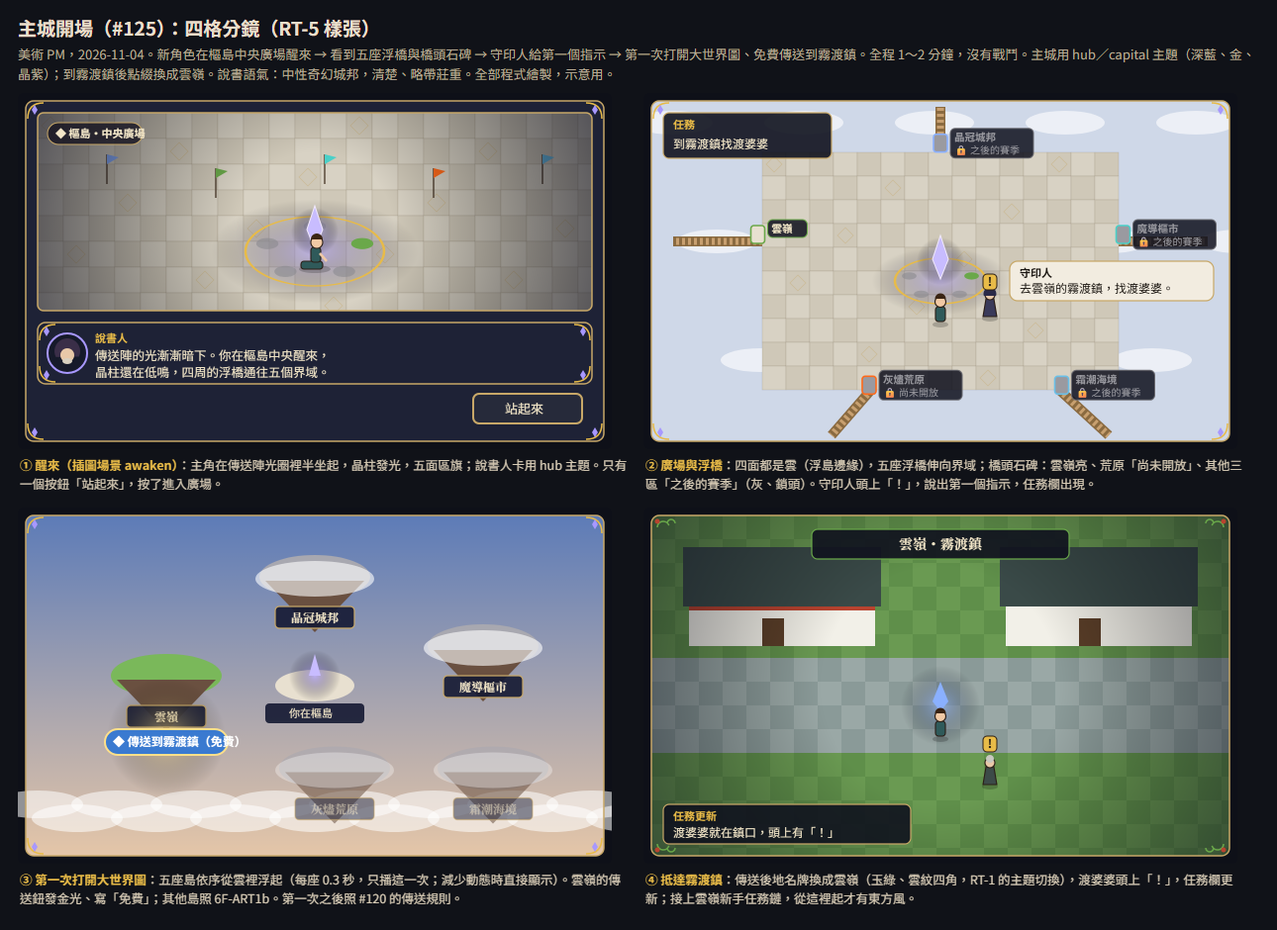
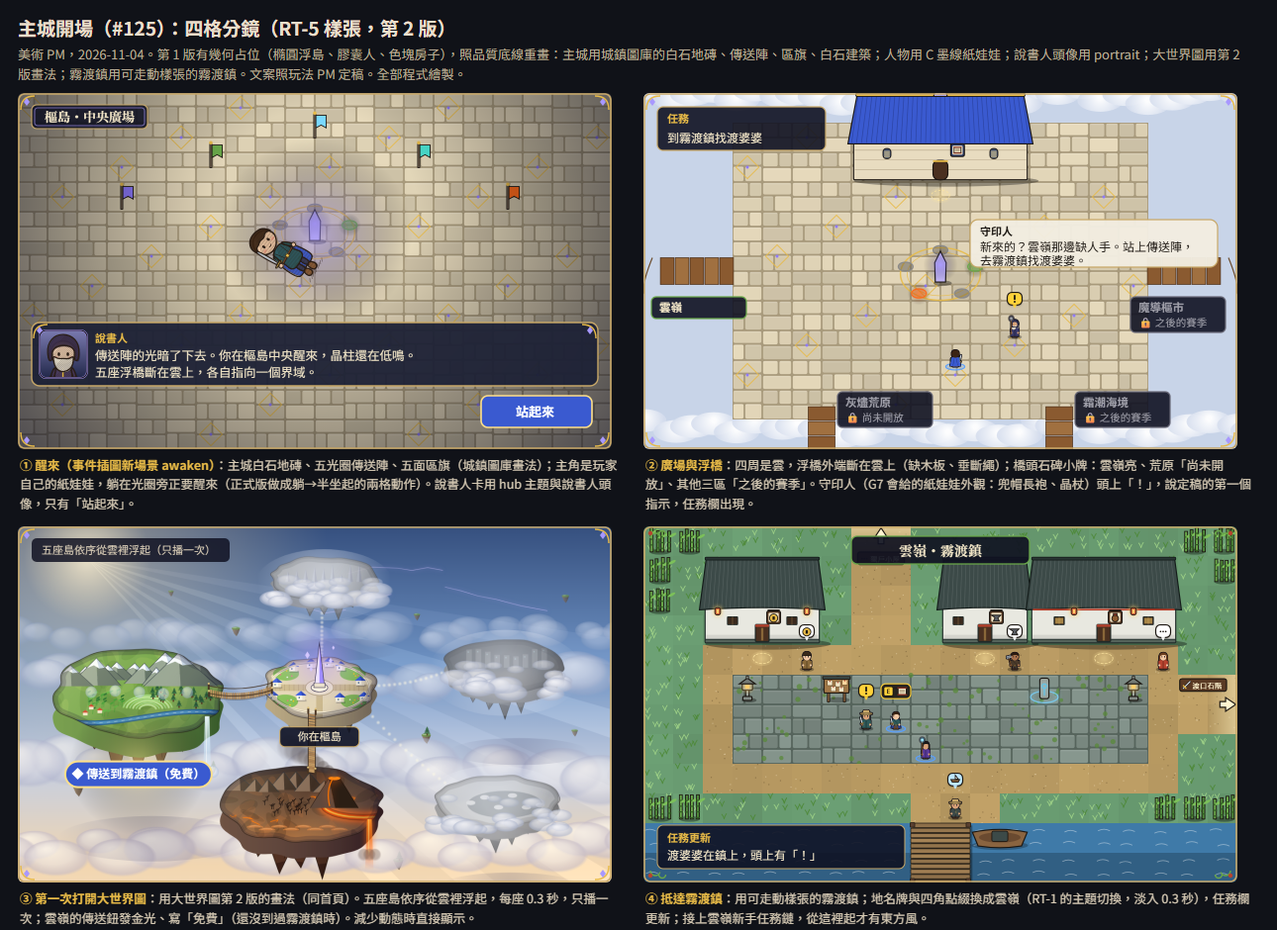
docs(art): creation preview origin scenery, final race text, capital opening storyboard v2

diff --git a/docs/art/sample/capital-opening.html b/docs/art/sample/capital-opening.html
@@ -8,84 +8,89 @@
   canvas{display:block;border-radius:6px}
 </style></head>
 <body>
-<h1>主城開場（#125）：四格分鏡（RT-5 樣張）</h1>
-<p class="note">美術 PM，2026-11-04。新角色在樞島中央廣場醒來 → 看到五座浮橋與橋頭石碑 → 守印人給第一個指示 → 第一次打開大世界圖、免費傳送到霧渡鎮。全程 1～2 分鐘，沒有戰鬥。主城用 hub／capital 主題（深藍、金、晶紫）；到霧渡鎮後點綴換成雲嶺。說書語氣：中性奇幻城邦，清楚、略帶莊重。全部程式繪製，示意用。</p>
+<h1>主城開場（#125）：四格分鏡（RT-5 樣張，第 2 版）</h1>
+<p class="note">美術 PM，2026-11-04。第 1 版有幾何占位（橢圓浮島、膠囊人、色塊房子），照品質底線重畫：主城用城鎮圖庫的白石地磚、傳送陣、區旗、白石建築；人物用 C 墨線紙娃娃；說書人頭像用 portrait；大世界圖用第 2 版畫法；霧渡鎮用可走動樣張的霧渡鎮。文案照玩法 PM 定稿。全部程式繪製。</p>
 <div class="grid" id="g"></div>
+<script src="raceArt.js"></script>
+<script src="paperdoll.js"></script>
+<script src="storyDoll.js"></script>
+<script src="portraits.js"></script>
+<script src="realms.js"></script>
+<script src="enemyArt.js"></script>
+<script src="explore.js"></script>
+<script src="hud.js"></script>
+<script src="regions4.js"></script>
+<script src="cloudTiles.js"></script>
+<script src="ashenTiles.js"></script>
+<script src="townTiles.js"></script>
+<script src="regionArt.js"></script>
+<script src="worldPaintedArt.js"></script>
 <script>
-const TAU=Math.PI*2,FONT="'Noto Sans TC','Microsoft JhengHei',sans-serif",SERIF="'Noto Serif TC','PMingLiU',serif";
+const E=Explore,TT=TownTiles,T=52,TAU=Math.PI*2,SK=E.SKIN;
+const FONT="'Noto Sans TC','Microsoft JhengHei',sans-serif",SERIF="'Noto Serif TC','PMingLiU',serif";
 const NAVY="#1e2236",NAVY2="#161a2a",GOLD="#c8a868",GOLD2="#e8bb48",CREAM="#f2e6c8",VIO="#a898ff";
-const REG=[["晶冠城邦","#8ab0ff",false,"之後的賽季"],["雲嶺","#6aa84a",true,""],["魔導樞市","#4ad0c8",false,"之後的賽季"],["灰燼荒原","#ff6a1a",false,"尚未開放"],["霜潮海境","#6ac0e8",false,"之後的賽季"]];
-function cv(w,h){const c=document.createElement("canvas");c.width=w*2;c.height=h*2;c.style.width=w+"px";c.style.height=h+"px";const x=c.getContext("2d");x.scale(2,2);return[c,x];}
+const PW=600,PH=360,K=PW/(20*T); // 每格畫 20×12 格，縮到 600×360
+function panel(draw){const c=document.createElement("canvas");c.width=PW*2;c.height=PH*2;c.style.width=PW+"px";c.style.height=PH+"px";const x=c.getContext("2d");x.scale(2,2);x.save();x.scale(K,K);draw(x);x.restore();return [c,x];}
 function glow(x,cx,cy,r,col,a=1){const g=x.createRadialGradient(cx,cy,0,cx,cy,r);g.addColorStop(0,col);g.addColorStop(1,"rgba(0,0,0,0)");x.save();x.globalAlpha=a;x.fillStyle=g;x.beginPath();x.arc(cx,cy,r,0,TAU);x.fill();x.restore();}
-function filigree(x,X,Y,sx,sy,acc=VIO){x.save();x.translate(X,Y);x.scale(sx,sy);x.strokeStyle=GOLD2;x.lineWidth=1.5;x.beginPath();x.moveTo(0,16);x.quadraticCurveTo(0,0,16,0);x.stroke();x.fillStyle=acc;x.beginPath();x.moveTo(7,2);x.lineTo(10,7);x.lineTo(7,12);x.lineTo(4,7);x.closePath();x.fill();x.restore();}
-function cloudCorner(x,X,Y,sx,sy){x.save();x.translate(X,Y);x.scale(sx,sy);x.strokeStyle="#6aa84a";x.lineWidth=1.5;x.beginPath();x.arc(10,10,6,Math.PI,TAU*0.95);x.stroke();x.beginPath();x.arc(18,6,4,Math.PI,TAU);x.stroke();x.fillStyle="#b8432f";x.beginPath();x.arc(4,4,2.5,0,TAU);x.fill();x.restore();}
-function frame(x,X,Y,W,H,corner=filigree,fill=true){x.fillStyle=NAVY;x.beginPath();x.roundRect(X,Y,W,H,8);if(fill)x.fill();x.strokeStyle=GOLD;x.lineWidth=1.5;x.stroke();corner(x,X+2,Y+2,1,1);corner(x,X+W-2,Y+2,-1,1);corner(x,X+2,Y+H-2,1,-1);corner(x,X+W-2,Y+H-2,-1,-1);}
-function stone(x,X,Y,W,H,T=26){for(let i=0;i*T<W;i++)for(let j=0;j*T<H;j++){x.fillStyle=(i+j)%2?"#d8d2c4":"#cfc8b8";x.fillRect(X+i*T,Y+j*T,T,T);x.strokeStyle="rgba(120,110,90,0.25)";x.lineWidth=0.6;x.strokeRect(X+i*T,Y+j*T,T,T);
-  if(((i*7+j*13)%12)===0){x.strokeStyle="rgba(200,168,104,0.45)";x.beginPath();x.moveTo(X+i*T+T/2,Y+j*T+4);x.lineTo(X+i*T+T-4,Y+j*T+T/2);x.lineTo(X+i*T+T/2,Y+j*T+T-4);x.lineTo(X+i*T+4,Y+j*T+T/2);x.closePath();x.stroke();}}}
-function portal(x,cx,cy,r,lit=1){x.save();x.translate(cx,cy);x.scale(1,0.5);glow(x,0,0,r*1.5,"rgba(168,152,255,0.55)",lit);x.strokeStyle=GOLD2;x.lineWidth=2.5;x.beginPath();x.arc(0,0,r,0,TAU);x.stroke();
-  REG.forEach(([,c,open],i)=>{const a=-Math.PI/2+i*TAU/5;x.fillStyle=open?c:"#8a8a90";x.globalAlpha=open?1:0.6;x.beginPath();x.arc(Math.cos(a)*r*0.72,Math.sin(a)*r*0.72,r*0.16,0,TAU);x.fill();x.globalAlpha=1;});x.restore();
-  glow(x,cx,cy-20,24,"rgba(200,190,255,0.8)",lit);x.fillStyle="#c8bcff";x.beginPath();x.moveTo(cx,cy-46);x.lineTo(cx+8,cy-22);x.lineTo(cx,cy-2);x.lineTo(cx-8,cy-22);x.closePath();x.fill();x.strokeStyle="#f2eaff";x.lineWidth=1;x.stroke();}
-function hero(x,X,Y,pose){x.strokeStyle="#2b1e16";x.lineWidth=1.1;
-  if(pose==="sit"){x.fillStyle="rgba(0,0,0,0.2)";x.beginPath();x.ellipse(X,Y+2,16,4,0,0,TAU);x.fill();x.fillStyle="#2f5a5a";x.beginPath();x.roundRect(X-14,Y-6,22,8,3);x.fill();x.stroke();
-    x.beginPath();x.roundRect(X-4,Y-20,10,15,3);x.fill();x.stroke();x.fillStyle="#f1c9a5";x.beginPath();x.arc(X+2,Y-25,6,0,TAU);x.fill();x.stroke();x.fillStyle="#3a2414";x.beginPath();x.arc(X+2,Y-28,6,Math.PI,TAU);x.fill();
-    x.strokeStyle="#f1c9a5";x.lineWidth=2.5;x.beginPath();x.moveTo(X+5,Y-14);x.lineTo(X+12,Y-6);x.stroke();}
-  else{x.fillStyle="rgba(0,0,0,0.2)";x.beginPath();x.ellipse(X,Y+2,8,3,0,0,TAU);x.fill();x.fillStyle="#2f5a5a";x.beginPath();x.roundRect(X-5,Y-16,10,15,3);x.fill();x.stroke();x.fillStyle="#f1c9a5";x.beginPath();x.arc(X,Y-21,5.5,0,TAU);x.fill();x.stroke();x.fillStyle="#3a2414";x.beginPath();x.arc(X,Y-24,5.5,Math.PI,TAU);x.fill();}}
-function npcFig(x,X,Y,body,hood){x.fillStyle="rgba(0,0,0,0.2)";x.beginPath();x.ellipse(X,Y+2,8,3,0,0,TAU);x.fill();x.fillStyle=body;x.strokeStyle="#2b1e16";x.lineWidth=1.1;x.beginPath();x.moveTo(X-7,Y);x.lineTo(X-4,Y-18);x.lineTo(X+4,Y-18);x.lineTo(X+7,Y);x.closePath();x.fill();x.stroke();
-  x.fillStyle="#e8c8a8";x.beginPath();x.arc(X,Y-22,5,0,TAU);x.fill();x.stroke();if(hood){x.fillStyle=hood;x.beginPath();x.arc(X,Y-23,6.5,Math.PI*0.9,TAU*1.05);x.fill();}}
-function mark(x,X,Y,ch="!",col=GOLD2){x.fillStyle=col;x.beginPath();x.roundRect(X-7,Y-9,14,16,4);x.fill();x.strokeStyle="#2b1e16";x.lineWidth=1;x.stroke();x.fillStyle="#1c1712";x.font=`bold 12px ${FONT}`;x.textAlign="center";x.fillText(ch,X,Y+3);x.textAlign="left";}
-function narr(x,X,Y,W,text,corner=filigree){frame(x,X,Y,W,62,corner);x.fillStyle=NAVY2;x.beginPath();x.arc(X+30,Y+31,20,0,TAU);x.fill();x.strokeStyle=VIO;x.lineWidth=2;x.stroke();
-  x.fillStyle="#3a2e48";x.beginPath();x.arc(X+30,Y+29,13,Math.PI*0.85,TAU*1.07);x.fill();x.fillStyle="#e8c8a8";x.beginPath();x.arc(X+30,Y+33,7,0,TAU);x.fill();x.fillStyle="#d8d0c0";x.beginPath();x.ellipse(X+30,Y+39,5,3,0,0,TAU);x.fill();
-  x.fillStyle=GOLD2;x.font=`bold 11px ${FONT}`;x.fillText("說書人",X+58,Y+20);x.fillStyle=CREAM;x.font=`12.5px ${FONT}`;const L=text.split("|");L.forEach((t,i)=>x.fillText(t,X+58,Y+38+i*17));}
-function banner(x,X,Y,c){x.strokeStyle="#5a4a3a";x.lineWidth=1.5;x.beginPath();x.moveTo(X,Y);x.lineTo(X,Y-30);x.stroke();x.fillStyle=c;x.beginPath();x.moveTo(X,Y-30);x.lineTo(X+12,Y-27);x.lineTo(X,Y-20);x.fill();}
-const W=600,H=360,panels=[];
-// 1 醒來
-panels.push([(x)=>{x.fillStyle="#0e1018";x.fillRect(0,0,W,H);frame(x,8,8,W-16,H-16);
-  x.save();x.beginPath();x.roundRect(20,20,W-40,200,6);x.clip();stone(x,20,20,W-40,200);
-  REG.forEach(([,c],i)=>banner(x,90+i*110,92+(i%2)*14,c));portal(x,300,160,70,1);hero(x,300,176,"sit");
-  const v=x.createRadialGradient(300,140,80,300,140,330);v.addColorStop(0,"rgba(0,0,0,0)");v.addColorStop(1,"rgba(10,12,30,0.7)");x.fillStyle=v;x.fillRect(20,20,W-40,200);x.restore();
-  x.strokeStyle=GOLD;x.lineWidth=1.5;x.beginPath();x.roundRect(20,20,W-40,200,6);x.stroke();
-  x.fillStyle="rgba(20,18,30,0.8)";x.beginPath();x.roundRect(30,30,96,22,11);x.fill();x.strokeStyle=GOLD;x.lineWidth=1;x.stroke();x.fillStyle=CREAM;x.font=`bold 11px ${FONT}`;x.fillText("◆ 樞島・中央廣場",38,45);
-  narr(x,20,232,W-40,"傳送陣的光漸漸暗下。你在樞島中央醒來，|晶柱還在低鳴，四周的浮橋通往五個界域。");
-  x.fillStyle="#262a3a";x.beginPath();x.roundRect(W-140,304,110,30,6);x.fill();x.strokeStyle=GOLD;x.stroke();x.fillStyle=CREAM;x.font=`13px ${FONT}`;x.fillText("站起來",W-108,324);},
- "<b>① 醒來（插圖場景 awaken）</b>：主角在傳送陣光圈裡半坐起，晶柱發光，五面區旗；說書人卡用 hub 主題。只有一個按鈕「站起來」，按了進入廣場。"]);
-// 2 廣場與浮橋＋守印人
-panels.push([(x)=>{x.fillStyle="#0e1018";x.fillRect(0,0,W,H);x.save();x.beginPath();x.roundRect(8,8,W-16,H-16,8);x.clip();
-  x.fillStyle="#cfd8e8";x.fillRect(8,8,W-16,H-16);for(let i=0;i<14;i++){x.fillStyle="rgba(255,255,255,0.6)";x.beginPath();x.ellipse(30+i*44,(i%3)*120+30,40,12,0,0,TAU);x.fill();}
-  stone(x,120,60,360,240,24);portal(x,300,190,46,0.9);
-  const ends=[[300,60,300,14],[120,150,30,150],[480,150,570,150],[230,300,190,346],[420,300,470,346]];const order=[0,1,2,3,4];
-  ends.forEach(([a,b,c,d],i)=>{const [nm,col,open,lab]=REG[order[i]];x.strokeStyle="#8a6a40";x.lineWidth=10;x.beginPath();x.moveTo(a,b);x.lineTo(c,d);x.stroke();x.strokeStyle="#c8a070";x.lineWidth=7;x.setLineDash([3,3]);x.beginPath();x.moveTo(a,b);x.lineTo(c,d);x.stroke();x.setLineDash([]);
-    const sx=a+(c-a)*0.05,sy=b+(d-b)*0.05;x.fillStyle=open?"#e8e0d0":"#9a9aa0";x.beginPath();x.roundRect(sx-7,sy-16,14,18,3);x.fill();x.strokeStyle=col;x.lineWidth=1.6;x.stroke();
-    x.fillStyle="rgba(16,18,30,0.86)";const tw=open?40:84;x.beginPath();x.roundRect(sx+10,sy-22,tw,lab?30:18,5);x.fill();x.strokeStyle=open?col:"#6a6a70";x.lineWidth=1;x.stroke();
-    x.fillStyle=open?CREAM:"#9a9aa0";x.font=`bold 10.5px ${FONT}`;x.fillText(nm,sx+14,sy-9);if(lab){x.font=`10px ${FONT}`;x.fillText("🔒 "+lab,sx+14,sy+4);}});
-  hero(x,300,232,"stand");npcFig(x,350,226,"#3a3a5a","#2a2a48");mark(x,350,192);
-  x.restore();frame(x,8,8,W-16,H-16,filigree,false);
-  x.fillStyle="#f2ece0";x.beginPath();x.roundRect(370,170,206,40,8);x.fill();x.strokeStyle=GOLD;x.lineWidth=1.2;x.stroke();x.fillStyle="#1c1712";x.font=`bold 11px ${FONT}`;x.fillText("守印人",380,186);x.font=`12px ${FONT}`;x.fillText("去雲嶺的霧渡鎮，找渡婆婆。",380,202);
-  x.fillStyle="rgba(16,18,30,0.9)";x.beginPath();x.roundRect(20,20,170,46,6);x.fill();x.strokeStyle=GOLD;x.stroke();x.fillStyle=GOLD2;x.font=`bold 11px ${FONT}`;x.fillText("任務",30,36);x.fillStyle=CREAM;x.font=`12px ${FONT}`;x.fillText("到霧渡鎮找渡婆婆",30,56);},
- "<b>② 廣場與浮橋</b>：四面都是雲（浮島邊緣），五座浮橋伸向界域；橋頭石碑：雲嶺亮、荒原「尚未開放」、其他三區「之後的賽季」（灰、鎖頭）。守印人頭上「！」，說出第一個指示，任務欄出現。"]);
-// 3 第一次打開大世界圖
-panels.push([(x)=>{x.fillStyle="#0e1018";x.fillRect(0,0,W,H);const g=x.createLinearGradient(0,0,0,H);g.addColorStop(0,"#5a7ab8");g.addColorStop(1,"#e8c8a8");x.fillStyle=g;x.beginPath();x.roundRect(8,8,W-16,H-16,8);x.fill();
-  for(let i=0;i<16;i++){x.fillStyle="rgba(255,255,255,0.55)";x.beginPath();x.ellipse(20+i*40,300+(i%2)*14,46,14,0,0,TAU);x.fill();}
-  const isl=[[300,70,0],[150,170,1],[470,140,2],[320,250,3],[480,250,4]];
-  isl.forEach(([cx,cy,ri],k)=>{const [nm,col,open]=REG[ri];const rise=k<3?1:0.55;x.save();x.globalAlpha=rise;x.translate(0,(1-rise)*30);
-    x.fillStyle=open?"#7ab85a":"#a8a8b0";x.beginPath();x.ellipse(cx,cy,56,22,0,0,TAU);x.fill();x.fillStyle="#6a5040";x.beginPath();x.moveTo(cx-50,cy+4);x.lineTo(cx,cy+56);x.lineTo(cx+50,cy+4);x.fill();
-    if(!open){x.fillStyle="rgba(255,255,255,0.6)";x.beginPath();x.ellipse(cx,cy+2,60,18,0,0,TAU);x.fill();}
-    x.fillStyle="rgba(20,24,50,0.9)";x.beginPath();x.roundRect(cx-40,cy+30,80,22,4);x.fill();x.strokeStyle=GOLD;x.lineWidth=1.2;x.stroke();x.fillStyle=CREAM;x.font=`bold 12px ${SERIF}`;x.textAlign="center";x.fillText(nm,cx,cy+46);x.textAlign="left";x.restore();});
-  x.fillStyle="#e8e0d0";x.beginPath();x.ellipse(300,180,40,16,0,0,TAU);x.fill();glow(x,300,170,26,"rgba(168,152,255,0.7)");x.fillStyle="#c8bcff";x.beginPath();x.moveTo(300,148);x.lineTo(306,170);x.lineTo(294,170);x.fill();
-  x.fillStyle="rgba(20,24,50,0.9)";x.beginPath();x.roundRect(250,198,100,20,4);x.fill();x.fillStyle=CREAM;x.font=`11px ${FONT}`;x.fillText("你在樞島",274,212);
-  glow(x,150,232,60,"rgba(255,224,138,0.55)");x.fillStyle="#3a7ad0";x.beginPath();x.roundRect(88,224,124,26,13);x.fill();x.strokeStyle="#ffe08a";x.lineWidth=2;x.stroke();x.fillStyle="#fff";x.font=`bold 12px ${FONT}`;x.fillText("◆ 傳送到霧渡鎮（免費）",96,241);
-  frame(x,8,8,W-16,H-16,filigree,false);},
- "<b>③ 第一次打開大世界圖</b>：五座島依序從雲裡浮起（每座 0.3 秒，只播這一次；減少動態時直接顯示）。雲嶺的傳送鈕發金光、寫「免費」；其他島照 6F-ART1b。第一次之後照 #120 的傳送規則。"]);
-// 4 抵達霧渡鎮
-panels.push([(x)=>{x.fillStyle="#0e1018";x.fillRect(0,0,W,H);x.save();x.beginPath();x.roundRect(8,8,W-16,H-16,8);x.clip();
-  for(let i=0;i<25;i++)for(let j=0;j<15;j++){x.fillStyle=(j>5&&j<10)?((i+j)%2?"#8a9a98":"#9aa8a6"):((i+j)%2?"#6a9a52":"#5f8f4a");x.fillRect(8+i*24,8+j*24,24,24);}
-  x.fillStyle="#3a4a48";x.fillRect(40,40,200,60);x.fillStyle="#f2f0e8";x.fillRect(46,100,188,40);x.fillStyle="#b8432f";x.fillRect(46,100,188,4);x.fillStyle="#5a3e28";x.fillRect(120,112,22,28);
-  x.fillStyle="#3a4a48";x.fillRect(360,40,200,60);x.fillStyle="#f2f0e8";x.fillRect(366,100,188,40);x.fillStyle="#5a3e28";x.fillRect(440,112,22,28);
-  glow(x,300,200,40,"rgba(138,176,255,0.6)");x.fillStyle="#8ab0ff";x.beginPath();x.moveTo(300,176);x.lineTo(308,196);x.lineTo(300,206);x.lineTo(292,196);x.fill();
-  hero(x,300,232,"stand");npcFig(x,350,280,"#3c4a48",null);x.fillStyle="#c8c8c0";x.beginPath();x.arc(350,254,4,0,TAU);x.fill();mark(x,350,240);
-  const v=x.createRadialGradient(300,180,120,300,180,360);v.addColorStop(0,"rgba(0,0,0,0)");v.addColorStop(1,"rgba(10,12,30,0.55)");x.fillStyle=v;x.fillRect(8,8,W-16,H-16);x.restore();
-  frame(x,8,8,W-16,H-16,cloudCorner,false);
-  x.fillStyle="rgba(16,18,30,0.92)";x.beginPath();x.roundRect(170,22,260,30,6);x.fill();x.strokeStyle="#6aa84a";x.lineWidth=1.2;x.stroke();x.fillStyle=CREAM;x.font=`bold 14px ${SERIF}`;x.textAlign="center";x.fillText("雲嶺・霧渡鎮",300,42);x.textAlign="left";
-  x.fillStyle="rgba(16,18,30,0.9)";x.beginPath();x.roundRect(20,300,250,40,6);x.fill();x.strokeStyle=GOLD;x.stroke();x.fillStyle=GOLD2;x.font=`bold 11px ${FONT}`;x.fillText("任務更新",30,316);x.fillStyle=CREAM;x.font=`12px ${FONT}`;x.fillText("渡婆婆就在鎮口，頭上有「！」",30,333);},
- "<b>④ 抵達霧渡鎮</b>：傳送後地名牌換成雲嶺（玉綠、雲紋四角，RT-1 的主題切換），渡婆婆頭上「！」，任務欄更新；接上雲嶺新手任務鏈，從這裡起才有東方風。"]);
-const g=document.getElementById("g");panels.forEach(([fn,cap])=>{const d=document.createElement("div");const [c,x]=cv(W,H);fn(x);d.appendChild(c);const p=document.createElement("div");p.className="cap";p.innerHTML=cap;d.appendChild(p);g.appendChild(d);});
+function fil(x,X,Y,sx,sy,acc=VIO){x.save();x.translate(X,Y);x.scale(sx,sy);x.strokeStyle=GOLD2;x.lineWidth=1.4;x.beginPath();x.moveTo(0,14);x.quadraticCurveTo(0,0,14,0);x.stroke();x.fillStyle=acc;x.beginPath();x.moveTo(6,2);x.lineTo(9,6);x.lineTo(6,10);x.lineTo(3,6);x.closePath();x.fill();x.restore();}
+function cloudC(x,X,Y,sx,sy){x.save();x.translate(X,Y);x.scale(sx,sy);x.strokeStyle="#6aa84a";x.lineWidth=1.4;x.beginPath();x.arc(9,9,5,Math.PI,TAU*0.95);x.stroke();x.beginPath();x.arc(16,5,3.5,Math.PI,TAU);x.stroke();x.fillStyle="#b8432f";x.beginPath();x.arc(4,4,2.2,0,TAU);x.fill();x.restore();}
+function border(x,corner=fil){x.strokeStyle=GOLD;x.lineWidth=1.6;x.beginPath();x.roundRect(1,1,PW-2,PH-2,6);x.stroke();corner(x,3,3,1,1);corner(x,PW-3,3,-1,1);corner(x,3,PH-3,1,-1);corner(x,PW-3,PH-3,-1,-1);}
+function plaqueLoc(x,X,Y,t,acc=VIO){x.fillStyle="rgba(16,18,34,0.9)";x.beginPath();x.roundRect(X,Y,t.length*13+26,24,5);x.fill();x.strokeStyle=GOLD;x.lineWidth=1.1;x.stroke();x.strokeStyle=acc;x.globalAlpha=0.6;x.beginPath();x.roundRect(X+3,Y+3,t.length*13+20,18,3);x.stroke();x.globalAlpha=1;x.fillStyle=CREAM;x.font=`bold 13px ${SERIF}`;x.fillText(t,X+13,Y+17);}
+const NARR={look:{skin:"#e8c8a8",hair:"none",beard:true,hairColor:"#d8d0c0"},gear:{body:{kind:"robe",color:"#4a3a5a",trim:"#e8bb48"},head:{kind:"hood",color:"#3a2e48"}}};
+Portraits.REGION.hub=["#a898ff","#22284a","#7a7ab0"];
+function narrCard(x,X,Y,W,lines){x.fillStyle="rgba(30,34,54,0.95)";x.beginPath();x.roundRect(X,Y,W,64,8);x.fill();x.strokeStyle=GOLD;x.lineWidth=1.4;x.stroke();fil(x,X+2,Y+2,1,1);fil(x,X+W-2,Y+2,-1,1);
+  Portraits.portrait(x,X+8,Y+8,48,["narrator","說書人","","hub",NARR.look,NARR.gear,[]]);x.fillStyle=GOLD2;x.font=`bold 11px ${FONT}`;x.fillText("說書人",X+64,Y+20);x.fillStyle=CREAM;x.font=`12.5px ${FONT}`;lines.forEach((t,i)=>x.fillText(t,X+64,Y+38+i*17));}
+const HERO=E.PARTY[0];
+function plazaArea(c,w,h){for(let gy=0;gy<h;gy++)for(let gx=0;gx<w;gx++)TT.plaza(c,gx,gy);}
+function cloudEdge(c,y0){const r=RegionArt.rng(7);for(let i=0;i<30;i++){const cx=i*38+r()*20,cy=y0+r()*30;const g=c.createRadialGradient(cx,cy-6,4,cx,cy,36);g.addColorStop(0,"rgba(255,255,255,0.95)");g.addColorStop(1,"rgba(214,222,238,0.85)");c.fillStyle=g;c.beginPath();c.ellipse(cx,cy,40,20,0,0,TAU);c.fill();}}
+function brokenBridge(c,x0,y0,dx,dy,len){ // 斷在雲上的木板浮橋（只畫外觀）
+  for(let i=0;i<len;i++){const px=x0+dx*i*T*0.5,py=y0+dy*i*T*0.5;if(i>=len-2&&i%2===1)continue;const w=dx?T*0.46:T*0.9,h=dx?T*0.9:T*0.46;
+    c.fillStyle=i%2?"#a07040":"#8a5a30";c.fillRect(px-w/2,py-h/2,w,h);c.strokeStyle="#4a2e18";c.lineWidth=1.2;c.strokeRect(px-w/2,py-h/2,w,h);}
+  const ex=x0+dx*(len-1)*T*0.5,ey=y0+dy*(len-1)*T*0.5;c.strokeStyle="#6a4a2a";c.lineWidth=2;c.beginPath();c.moveTo(ex-(dy?T*0.45:0),ey-(dx?T*0.45:0));c.quadraticCurveTo(ex+dx*20,ey+dy*20+26,ex+dx*14,ey+dy*14+40);c.stroke();}
+const panels=[];
+// ① 醒來
+panels.push([()=>{const [c,x]=panel(c=>{plazaArea(c,20,12);
+    ["crystal_crown","cloud_ridge","arcane_hub","ashen_waste","frost_tide"].forEach((r,k)=>TT.banner(c,[3,6,13,16,9.5][k]*T,[3,1.6,1.6,3,0.6][k]*T,r));
+    TT.portalPlaza(c,8.5,3.2);glow(c,10*T,4.8*T,170,"rgba(168,152,255,0.55)");
+    // 主角在光圈裡半坐起（紙娃娃側躺後抬起上身）
+    c.save();c.translate(10*T,6*T);c.rotate(-1.05);StoryDoll.stamp(c,{look:HERO[0],gear:HERO[1]},"front",0,0,2.4,false);c.restore();
+    const v=c.createRadialGradient(10*T,4*T,180,10*T,4*T,640);v.addColorStop(0,"rgba(0,0,0,0)");v.addColorStop(1,"rgba(10,12,30,0.65)");c.fillStyle=v;c.fillRect(0,0,20*T,12*T);});
+  plaqueLoc(x,14,12,"樞島・中央廣場");narrCard(x,14,PH-128,PW-28,["傳送陣的光暗了下去。你在樞島中央醒來，晶柱還在低鳴。","五座浮橋斷在雲上，各自指向一個界域。"]);
+  x.fillStyle="#3a5ad0";x.beginPath();x.roundRect(PW-132,PH-54,112,32,7);x.fill();x.strokeStyle="#ffe08a";x.lineWidth=1.6;x.stroke();x.fillStyle="#fff";x.font=`bold 13px ${FONT}`;x.fillText("站起來",PW-97,PH-33);border(x);return c;},
+ "<b>① 醒來（事件插圖新場景 awaken）</b>：主城白石地磚、五光圈傳送陣、五面區旗（城鎮圖庫畫法）；主角是玩家自己的紙娃娃，躺在光圈旁正要醒來（正式版做成躺→半坐起的兩格動作）。說書人卡用 hub 主題與說書人頭像，只有「站起來」。"]);
+// ② 廣場與浮橋＋守印人
+panels.push([()=>{const [c,x]=panel(c=>{c.fillStyle="#c8d4e8";c.fillRect(0,0,20*T,12*T);cloudEdge(c,-10);cloudEdge(c,11*T);
+    for(let gy=1;gy<11;gy++)for(let gx=3;gx<17;gx++)TT.plaza(c,gx,gy);
+    TT.stoneHall(c,7,0,6,3,{door:3,windows:[1.2,4.8],sign:"scroll",spire:true});
+    TT.portalPlaza(c,8.5,4.6);
+    brokenBridge(c,2.8*T,6*T,-1,0,6);brokenBridge(c,17.2*T,6*T,1,0,6);brokenBridge(c,6*T,10.8*T,0,1,4);brokenBridge(c,14*T,10.8*T,0,1,4);
+    E.person(c,10,8.4,...HERO,"north","#5aa0ff");
+    E.person(c,12,7.4,{skin:SK[1],hair:"long",hairColor:"#d8d0c0",beard:true},{body:{kind:"robe",color:"#3a3a6a",trim:"#e8bb48"},head:{kind:"hood",color:"#2a2a4a"},main_hand:{kind:"staff",material:"crystal"}},"west",null);
+    E.bubble(c,12*T+T/2,7.4*T+T*0.82-52,"bang","quest");});
+  // 橋頭石碑的小牌
+  const S=[[8,206,"雲嶺","",true,"#6aa84a"],[PW-108,206,"魔導樞市","之後的賽季",false],[196,PH-58,"灰燼荒原","尚未開放",false],[436,PH-58,"霜潮海境","之後的賽季",false]];
+  S.forEach(([X,Y,n,lab,open,col])=>{x.fillStyle="rgba(16,18,34,0.9)";x.beginPath();x.roundRect(X,Y,96,lab?36:22,5);x.fill();x.strokeStyle=open?col:"#6a6a78";x.lineWidth=1.2;x.stroke();x.fillStyle=open?CREAM:"#a0a0aa";x.font=`bold 11.5px ${FONT}`;x.fillText(n,X+8,Y+15);
+    if(lab){x.font=`10.5px ${FONT}`;x.fillText("🔒 "+lab,X+8,Y+30);}});
+  x.fillStyle="rgba(242,236,224,0.97)";x.beginPath();x.roundRect(PW-270,128,250,48,8);x.fill();x.strokeStyle=GOLD;x.lineWidth=1.2;x.stroke();x.fillStyle="#1c1712";x.font=`bold 11px ${FONT}`;x.fillText("守印人",PW-260,144);x.font=`12px ${FONT}`;x.fillText("新來的？雲嶺那邊缺人手。站上傳送陣，",PW-260,160);x.fillText("去霧渡鎮找渡婆婆。",PW-260,174);
+  x.fillStyle="rgba(16,18,34,0.9)";x.beginPath();x.roundRect(14,14,170,44,6);x.fill();x.strokeStyle=GOLD;x.stroke();x.fillStyle=GOLD2;x.font=`bold 11px ${FONT}`;x.fillText("任務",24,30);x.fillStyle=CREAM;x.font=`12px ${FONT}`;x.fillText("到霧渡鎮找渡婆婆",24,50);
+  border(x);return c;},
+ "<b>② 廣場與浮橋</b>：四周是雲，浮橋外端斷在雲上（缺木板、垂斷繩）；橋頭石碑小牌：雲嶺亮、荒原「尚未開放」、其他三區「之後的賽季」。守印人（G7 會給的紙娃娃外觀：兜帽長袍、晶杖）頭上「！」，說定稿的第一個指示，任務欄出現。"]);
+// ③ 第一次打開大世界圖
+panels.push([()=>{const c=document.createElement("canvas");c.width=PW*2;c.height=PH*2;c.style.width=PW+"px";c.style.height=PH+"px";const x=c.getContext("2d");
+  const bg=document.createElement("canvas");WorldPaintedArt.drawBackdrop(bg,900);x.drawImage(bg,0,0,PW*2,PW*2*bg.height/bg.width);x.scale(2,2);
+  const sx=PW/1280,sy=sx;const isl=WorldPaintedArt.ISLANDS;
+  const cl=isl.find(i=>i.id==="cloud_ridge"),cp=isl.find(i=>i.id==="capital");
+  glow(x,cl.x*sx,(cl.y+cl.ry*1.6)*sy,70,"rgba(255,224,138,0.5)");
+  x.fillStyle="#3a5ad0";x.beginPath();x.roundRect(cl.x*sx-74,(cl.y+cl.ry*1.5)*sy,148,26,13);x.fill();x.strokeStyle="#ffe08a";x.lineWidth=2;x.stroke();x.fillStyle="#fff";x.font=`bold 12px ${FONT}`;x.textAlign="center";x.fillText("◆ 傳送到霧渡鎮（免費）",cl.x*sx,(cl.y+cl.ry*1.5)*sy+17);
+  x.fillStyle="rgba(16,18,34,0.9)";x.beginPath();x.roundRect(cp.x*sx-40,(cp.y+cp.ry*1.25)*sy,80,20,5);x.fill();x.strokeStyle=GOLD;x.lineWidth=1;x.stroke();x.fillStyle=CREAM;x.font=`11px ${FONT}`;x.fillText("你在樞島",cp.x*sx,(cp.y+cp.ry*1.25)*sy+14);x.textAlign="left";
+  x.fillStyle="rgba(16,18,34,0.85)";x.beginPath();x.roundRect(14,12,200,24,5);x.fill();x.fillStyle="#d8ccb6";x.font=`11px ${FONT}`;x.fillText("五座島依序從雲裡浮起（只播一次）",24,28);
+  border(x);return c;},
+ "<b>③ 第一次打開大世界圖</b>：用大世界圖第 2 版的畫法（同首頁）。五座島依序從雲裡浮起，每座 0.3 秒，只播一次；雲嶺的傳送鈕發金光、寫「免費」（還沒到過霧渡鎮時）。減少動態時直接顯示。"]);
+// ④ 抵達霧渡鎮
+panels.push([()=>{const [c,x]=panel(c=>{E.town(c,()=>{});});
+  x.fillStyle="rgba(16,18,34,0.92)";x.beginPath();x.roundRect(PW/2-90,10,180,28,6);x.fill();x.strokeStyle="#6aa84a";x.lineWidth=1.3;x.stroke();x.fillStyle=CREAM;x.font=`bold 14px ${SERIF}`;x.textAlign="center";x.fillText("雲嶺・霧渡鎮",PW/2,30);x.textAlign="left";
+  x.fillStyle="rgba(16,18,34,0.9)";x.beginPath();x.roundRect(14,PH-58,250,44,6);x.fill();x.strokeStyle=GOLD;x.lineWidth=1;x.stroke();x.fillStyle=GOLD2;x.font=`bold 11px ${FONT}`;x.fillText("任務更新",24,PH-41);x.fillStyle=CREAM;x.font=`12px ${FONT}`;x.fillText("渡婆婆在鎮上，頭上有「！」",24,PH-23);
+  border(x,cloudC);return c;},
+ "<b>④ 抵達霧渡鎮</b>：用可走動樣張的霧渡鎮；地名牌與四角點綴換成雲嶺（RT-1 的主題切換，淡入 0.3 秒），任務欄更新；接上雲嶺新手任務鏈，從這裡起才有東方風。"]);
+const g=document.getElementById("g");panels.forEach(([fn,cap])=>{const d=document.createElement("div");d.appendChild(fn());const p=document.createElement("div");p.className="cap";p.innerHTML=cap;d.appendChild(p);g.appendChild(d);});
 </script></body></html>

diff --git a/docs/art/sample/create-v2.html b/docs/art/sample/create-v2.html
@@ -7,7 +7,7 @@
 </style></head>
 <body>
 <h1>建立角色（第 2 版樣張）：種族、出身、武器、關鍵字都用遊戲裡的畫法</h1>
-<p class="note">美術 PM，2026-11-04。使用者看第 1 版：「太簡陋了吧」。種族小圖改用 C 墨線紙娃娃的頭像（看得到尖耳、狐耳、鱗角、鬍子、獠牙、義眼、鰭耳）；選中的種族在右上展開名字、簡介、種族技、環境被動、判定加值；左邊大預覽跟著切換。出身用五區紋章與區域色；武器用遊戲的武器圖示；關鍵字用小圖示。全部程式繪製；簡介文字是美術 PM 暫擬，正式文案由玩法 PM 定。</p>
+<p class="note">美術 PM，2026-11-04。使用者看第 1 版：「太簡陋了吧」。種族小圖改用 C 墨線紙娃娃的頭像（看得到尖耳、狐耳、鱗角、鬍子、獠牙、義眼、鰭耳）；選中的種族在右上展開名字、簡介、種族技、環境被動、判定加值；左邊大預覽跟著切換。出身用五區紋章與區域色；武器用遊戲的武器圖示；關鍵字用小圖示。全部程式繪製；種族簡介、判定加值、出身描述照玩法 PM 定稿（#115）。左邊預覽背後是所選出身區的淡景。</p>
 <div id="a"></div>
 <script src="raceArt.js"></script>
 <script src="paperdoll.js"></script>
@@ -66,7 +66,15 @@ function kwIcon(x,cx,cy,k){const C={冰凍:"#8ad8ff",燃燒:"#ff8a3a",帶電:"#f
 function chip(x,X,Y,W,H,sel,col=GOLD2){x.fillStyle=sel?"#2a3a6a":"#262a3a";x.beginPath();x.roundRect(X,Y,W,H,8);x.fill();x.strokeStyle=sel?col:"#3a4060";x.lineWidth=sel?2:1;x.stroke();if(sel){glow(x,X+W/2,Y+H/2,W*0.6,"rgba(232,187,72,0.15)");}}
 const W=1300,H=980;const [c,x]=cv(W,H);sky(x,W,H);
 // 左：預覽
-frame(x,20,20,330,940);x.fillStyle=GOLD2;x.font=`bold 14px ${FONT}`;x.fillText("預覽",40,48);
+frame(x,20,20,330,940);
+// 預覽背景：所選出身區的淡景（區域插畫 B 彩繪的全貌，RegionArt.draw 的 full 模式），框內上半部，往下漸淡到深藍
+{const rg=document.createElement("canvas");RegionArt.draw(rg,"painted",{full:true,region:"cloud_ridge"});
+ x.save();x.beginPath();x.roundRect(24,24,322,620,6);x.clip();x.globalAlpha=0.62;
+ const sw=rg.width*0.42,sh=sw*620/322;x.drawImage(rg,rg.width*0.08,rg.height*0.12,sw,Math.min(sh,rg.height*0.86),24,24,322,620);x.globalAlpha=1;
+ const fade=x.createLinearGradient(0,300,0,644);fade.addColorStop(0,"rgba(30,34,54,0)");fade.addColorStop(1,"rgba(30,34,54,1)");x.fillStyle=fade;x.fillRect(24,300,322,344);
+ const top=x.createLinearGradient(0,24,0,90);top.addColorStop(0,"rgba(30,34,54,0.85)");top.addColorStop(1,"rgba(30,34,54,0)");x.fillStyle=top;x.fillRect(24,24,322,66);x.restore();
+ x.fillStyle="rgba(16,18,30,0.75)";x.beginPath();x.roundRect(220,34,116,22,11);x.fill();x.strokeStyle=RC.雲嶺[0];x.lineWidth=1;x.stroke();x.fillStyle=CREAM;x.font=`11px ${FONT}`;x.fillText("出身：雲嶺的景",232,49);}
+x.fillStyle=GOLD2;x.font=`bold 14px ${FONT}`;x.fillText("預覽",40,48);
 glow(x,185,420,170,"rgba(106,168,74,0.35)");x.fillStyle="rgba(0,0,0,0.3)";x.beginPath();x.ellipse(185,520,70,14,0,0,TAU);x.fill();
 StoryDoll.stamp(x,{look:R.fox.look,gear:{body:{kind:"leather",color:"#6a5040"},feet:{kind:"boots",material:"leather"},main_hand:{kind:"bow",material:"wood"}}},"front",185,520,4.6,false);
 x.fillStyle=CREAM;x.font=`bold 20px ${SERIF}`;x.textAlign="center";x.fillText("霜月",185,570);x.fillStyle="#c8bca8";x.font=`12.5px ${FONT}`;x.fillText("狐族・雲嶺出身・弓",185,592);x.textAlign="left";
@@ -85,11 +93,11 @@ RACES.forEach(([id,zh,realm],i)=>{const X=392+(i%5)*120,Y=126+Math.floor(i/5)*12
 // 選中種族的說明
 {const X=1000,Y=126,Wd=258,Hd=248;x.fillStyle=NAVY2;x.beginPath();x.roundRect(X,Y,Wd,Hd,8);x.fill();x.strokeStyle=RC.雲嶺[0];x.lineWidth=1.6;x.stroke();
  x.fillStyle=CREAM;x.font=`bold 18px ${SERIF}`;x.fillText("狐族",X+14,Y+30);x.fillStyle=RC.雲嶺[0];x.font=`11px ${FONT}`;x.fillText("雲嶺",X+62,Y+30);
- x.fillStyle="#c8bca8";x.font=`12px ${FONT}`;["霧裡長大的狐耳一族，耳朵聽得見","別人聽不見的腳步聲。"].forEach((t,i)=>x.fillText(t,X+14,Y+54+i*17));
+ x.fillStyle="#c8bca8";x.font=`12px ${FONT}`;["狐耳狐尾的一族，聽得見別人聽不見","的腳步聲，也最會說話。"].forEach((t,i)=>x.fillText(t,X+14,Y+54+i*17));
  const row=(lab,t1,t2,y,col)=>{x.fillStyle=col;x.font=`bold 11.5px ${FONT}`;x.fillText(lab,X+14,Y+y);x.fillStyle=CREAM;x.font=`bold 12.5px ${FONT}`;x.fillText(t1,X+14,Y+y+18);x.fillStyle="#b8ab96";x.font=`11px ${FONT}`;x.fillText(t2,X+14,Y+y+34);};
  row("種族技（每場 1 次）","狐火誘餌","2 格內放誘餌，敵人下一次單體攻擊打它",100,GOLD2);
  row("環境被動","靈覺","看得見 2 格內的敵方陷阱與隱蔽單位",156,GOLD2);
- x.fillStyle="#8ad8ff";x.font=`bold 11.5px ${FONT}`;x.fillText("判定加值",X+14,Y+212);x.fillStyle="#2a3a6a";x.beginPath();x.roundRect(X+14,Y+220,150,22,11);x.fill();x.strokeStyle="#8ad8ff";x.lineWidth=1;x.stroke();x.fillStyle=CREAM;x.font=`bold 12px ${FONT}`;x.fillText("說服、欺騙 +1",X+26,Y+236);}
+ x.fillStyle="#8ad8ff";x.font=`bold 11.5px ${FONT}`;x.fillText("判定加值",X+14,Y+212);x.fillStyle="#2a3a6a";x.beginPath();x.roundRect(X+14,Y+220,110,22,11);x.fill();x.strokeStyle="#8ad8ff";x.lineWidth=1;x.stroke();x.fillStyle=CREAM;x.font=`bold 12px ${FONT}`;x.fillText("交涉 +1",X+44,Y+236);x.fillStyle="#9a8e7c";x.font=`10.5px ${FONT}`;x.fillText("情境判定用這類方法時 +1",X+132,Y+236);}
 sec("3","出身",412);
 const ORIG=[["晶冠城邦","晶冠","白石與晶光的城邦"],["雲嶺","雲嶺","雲海上的山城與竹林"],["魔導樞市","樞市","黃銅與晶能的工坊街"],["灰燼荒原","灰燼","焦土上的拾荒聚落"],["霜潮海境","霜潮","浮冰與珊瑚的港灣"]];
 ORIG.forEach(([n,realm,d],i)=>{const X=392+i*174,Y=422,sel=realm==="雲嶺";chip(x,X,Y,166,72,sel,RC[realm][0]);emblem(x,X+30,Y+36,22,realm);x.fillStyle=CREAM;x.font=`bold 13.5px ${FONT}`;x.fillText(n,X+60,Y+32);x.fillStyle="#9a8e7c";x.font=`10.5px ${FONT}`;x.fillText(d,X+60,Y+52);});

diff --git a/docs/art/全遊戲一致性巡檢.md b/docs/art/全遊戲一致性巡檢.md
@@ -91,10 +91,11 @@
 |---|---|
 | 種族 | 選項卡放大（約 112×120），小圖用 C 墨線紙娃娃頭像（`portrait.ts` 的畫法），看得到尖耳、狐耳、鱗與角、鬍子、獠牙、發光義眼、鰭耳與珊瑚飾；框色是種族所屬界域的區域色，卡下寫界域 |
 | 選中的種族 | 右側展開：名字、一句簡介、種族技（每場次數）、環境被動、**判定加值**（#89，例「狐族：說服、欺騙 +1」） |
-| 預覽 | 左邊大紙娃娃跟著種族、出身、武器即時切換，◀▶ 轉身；下方顯示起始技能卡 |
+| 預覽 | 左邊大紙娃娃跟著種族、出身、武器即時切換，◀▶ 轉身；**背後是所選出身區的淡景**（該區區域插畫 B 彩繪的全貌，`regionMapArt` 的地景層，透明度約 0.6，往下漸淡到深藍；還沒有區域插畫的出身區先用大世界圖該島的島頂放大）；右上角小牌「出身：〇〇的景」；下方顯示起始技能（技能圖示＋名字＋花費） |
 | 出身 | 五區紋章（晶冠＝晶冠冠冕、雲嶺＝山與雲、樞市＝齒輪晶核、荒原＝火焰、霜潮＝浪與珊瑚），加區域色和一句短描述 |
 | 武器 | 遊戲的武器圖示（`gearIcon`／`weaponIcon`），同名不重複 |
 | 關鍵字 | 每個關鍵字一個小圖示（冰凍雪花、燃燒火焰、帶電閃電、潮濕水滴、中毒泡泡、倒地、撞擊、標記、高處、隱蔽、召喚物、形態），選中金框 |
 
-- **文字要玩法 PM 定**：10 族的一句簡介、10 族的判定加值（設計文件 #89 只舉了狐族、矮人、海民三族的例子），五區出身的一句短描述。樣張上的文字是美術 PM 暫擬。
+- **文字已由玩法 PM 定稿**（#115，`玩法PM-建角種族出身文字.md`）：種族簡介放 `races.yaml` 新欄位 `blurb_zh`；判定加值照 `situation_rules.yaml` 的 `race_methods`，顯示成「判定加值：交涉 +1」，滑過時說明「情境判定用這類方法時 +1」；出身短描述照樣張的五句。
+- 首頁照 `home-v2.png`：背景直接呼叫大世界圖第 2 版的畫法（`drawBackdrop`），選單放右側不擋島。
 - 工作量：建角這一頁從 0.4 段增加到約 0.6 段，UI-E1 合計約 1.2 段。

diff --git a/docs/art/偷懶自查.md b/docs/art/偷懶自查.md
@@ -35,7 +35,7 @@ Boss 戰沒有實機截圖，已請開發補拍，補拍後再補進這份。
 | S4 | 建角起始技能 | `create-v2.png`（重做前） | 起始技能用純色方塊代替技能圖示 | A、B | 第一眼 | **已改**：用 `skillIcons.js` 的技能圖示 | 已完成 |
 | S5 | 建角背景 | `create-v2.png`（重做前） | 漸層加橢圓雲 | A、C | 第一眼 | **已改**：同 S1 的浮島天空，蓋一層深藍 | 已完成 |
 | S6 | 區域主題對照的事件插圖 | `region-themes.png` | 事件插圖裡的地面是格子色塊、人物是膠囊形、源晶燈和藍頂是幾何形，沒標「占位」 | A | 少見（只給使用者看過） | 樣張補上「示意」標示；正式做法照 RT-2（用實地地圖的地磚與紙娃娃）。開發照規格做、不照這張圖 | 0（文件） |
-| S7 | 主城開場四格分鏡 | `capital-opening.png` | ③格的浮島是橢圓加倒三角、人物是膠囊形、④格霧渡鎮是色塊房子 | A、C | 第一眼（開場） | **重畫**：③格用 `drawBackdrop`；①②④格用 C 紙娃娃、6D-ART2 主城與 6B-ART1 霧渡鎮的畫法。開發仍照規格做，樣張只是溝通用，但品質要對齊 | 0.1（美術 PM） |
+| S7 | 主城開場四格分鏡 | `capital-opening.png` | ③格的浮島是橢圓加倒三角、人物是膠囊形、④格霧渡鎮是色塊房子 | A、C | 第一眼（開場） | **已重畫（第 2 版）**：①② 用城鎮圖庫的主城地磚、傳送陣、區旗、白石建築與 C 紙娃娃、說書人頭像；③ 用 `drawBackdrop`；④ 用可走動樣張的霧渡鎮 | 已完成 |
 | S8 | 等待動畫四風格 | `wait-styles.png`、`ink-wait4.html` | 書、沙漏、羊皮紙都是簡單幾何；NPC 頭像是方塊臉 | A、C | 少見 | 已選 C；RT-3 交件前，美術 PM 先出 C 的完整樣張：羽毛筆照紙娃娃墨線、頭像用 `portrait.ts` | 0.1（美術 PM） |
 | S9 | 傭兵頭像 | `merc-portraits.png` | 沒問題，用的是 C 紙娃娃 | — | — | — | — |
 | S10 | 墨線圖示 | `story-icons.png` | 沒問題；d20 描邊已在 6Q-1 調好 | — | — | — | — |
